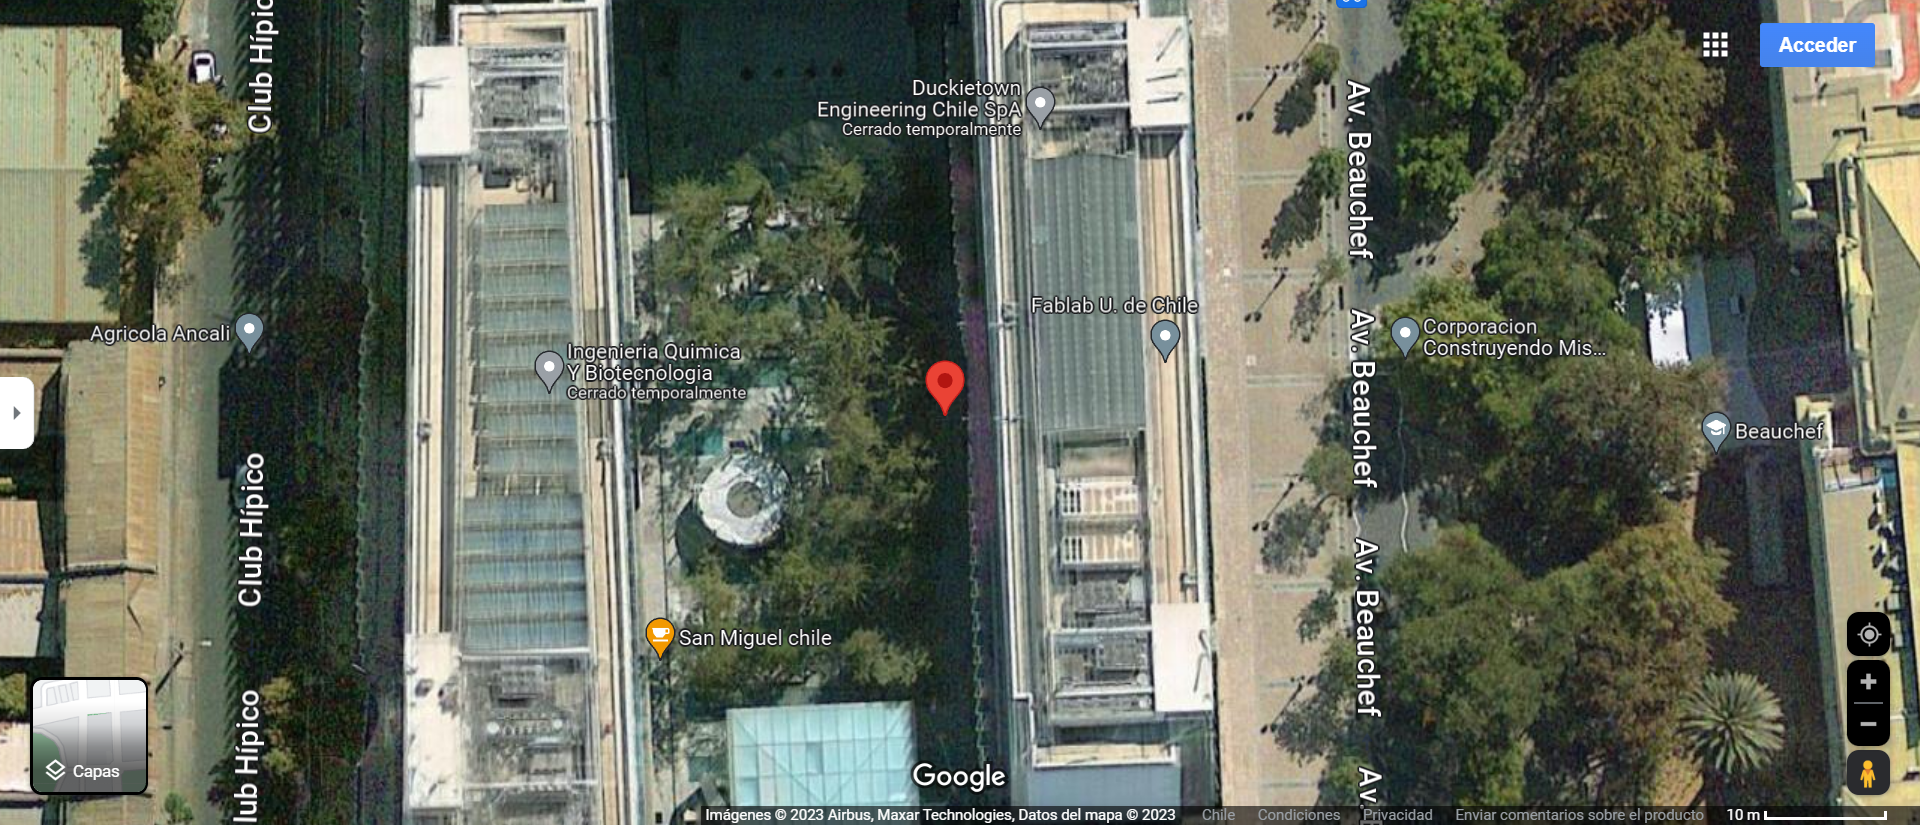
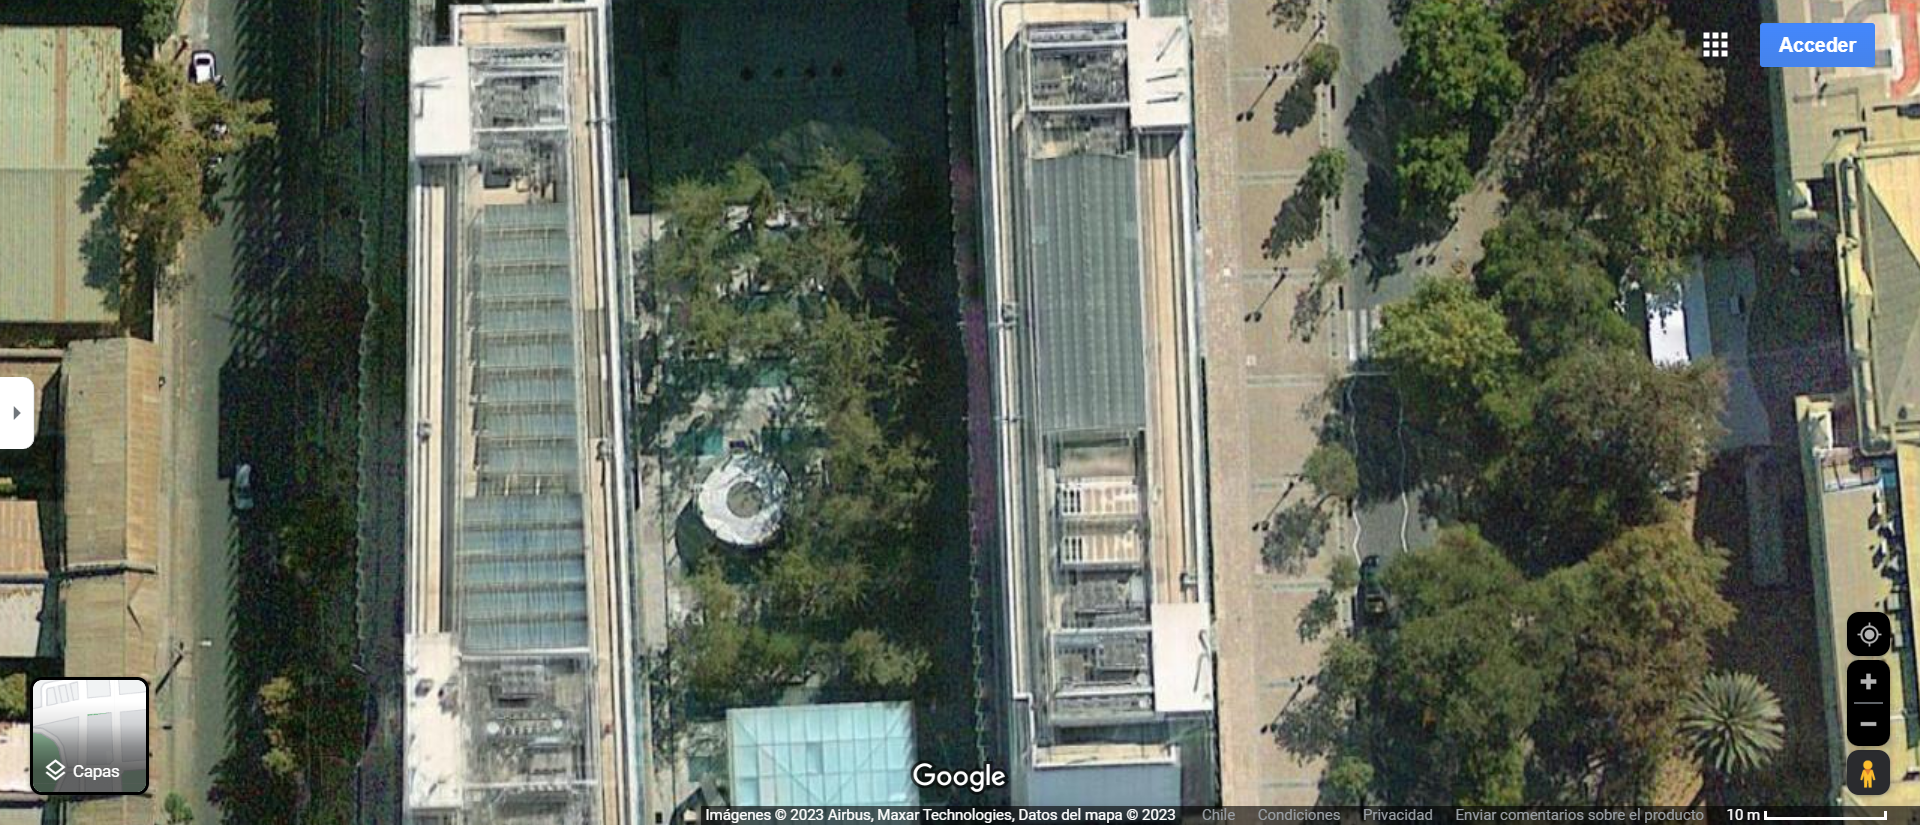
Tag erase
Erase tags from the map

diff --git a/googleMapsBot.py b/googleMapsBot.py
@@ -52,22 +52,33 @@ with open(coordinates_file,"r") as file:
         #Close side bar tab
         side_bar = browser.find_element(By.XPATH,'//*[@id="QA0Szd"]/div/div/div[2]/button')
         side_bar.click()
-        time.sleep(2)
+        time.sleep(1)
 
         #Hover satelite view
-        #actions.move_to_element(satelite_view)
-        #actions.perform()
-        #time.sleep(5)
+        actions.move_to_element(satelite_view)
+        actions.perform()
+        time.sleep(2)
 
-        #more_button = browser.find_element(By.XPATH,'/div/div/ul/li[5]/button')
-        #more_button.click()
-        #time.sleep(2)
+        #Click more button to get more options
+        more_button = browser.find_element(By.XPATH,'//*[@id="layer-switcher-quick"]/div/div/div/ul/li[5]/button')
+        more_button.click()
+        time.sleep(1)
+
+        #Click checkbox to erase tags from the map
+        tag_checkbox = browser.find_element(By.XPATH,'//*[@id="layer-switcher"]/div/div/div/div[4]/ul/li[2]/button')
+        tag_checkbox.click()
+        time.sleep(1)
+
+        #Close the hovered window
+        close_button = browser.find_element(By.XPATH,'//*[@id="layer-switcher"]/div/div/div/div[1]/header/button')
+        close_button.click()
+        time.sleep(1)
 
         #Center the image by dragging the map
         maps = browser.find_element(By.XPATH,'//*[@id="scene"]/div[3]')
         #For some reason the first move_by_offset is not done, but if it is not written none of it works
         #TODO: Erase first move_by_offset without breaking the code
-        actions.click_and_hold(maps).move_by_offset(150, 100).pause(2).move_by_offset(-250, 0).release()
+        actions.click_and_hold(maps).move_by_offset(150, 100).pause(1).move_by_offset(-250, 0).release()
         actions.perform()
 
         #Take and save screenshot
@@ -76,7 +87,7 @@ with open(coordinates_file,"r") as file:
 
         #Open side bar again to do a new search
         side_bar.click()
-        time.sleep(2)
+        time.sleep(1)
 
         #Clear text box and add 1 to the counter
         search_bar.clear()

diff --git a/README.md b/README.md
@@ -1,2 +1,3 @@
 # GoogleMapsBot
-Bot that gets into google maps, types the given coordinate and takes a screenshot.
+
+Bot that gets into Google Maps and searches for all the coordinates on a given txt file, taking a screenshot of the final view.
